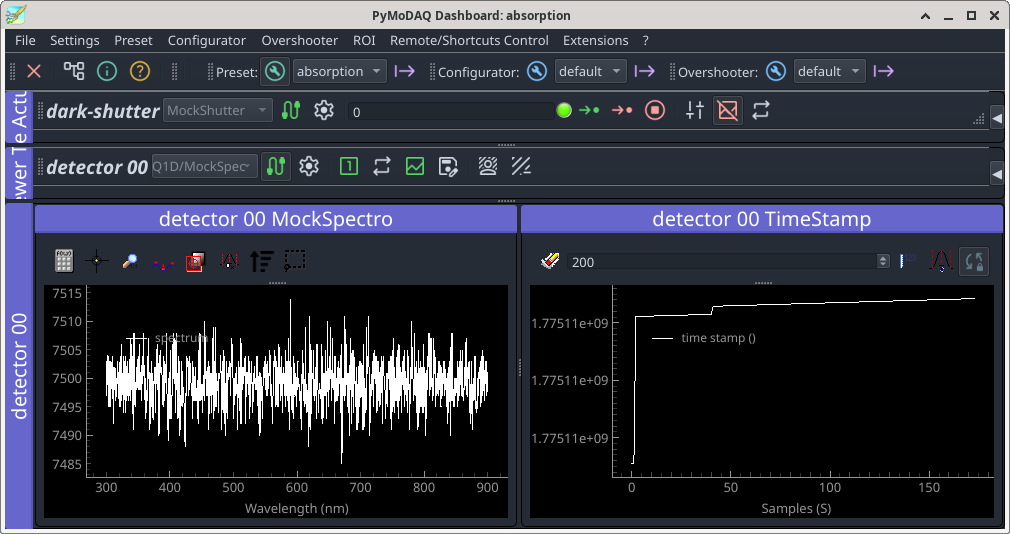
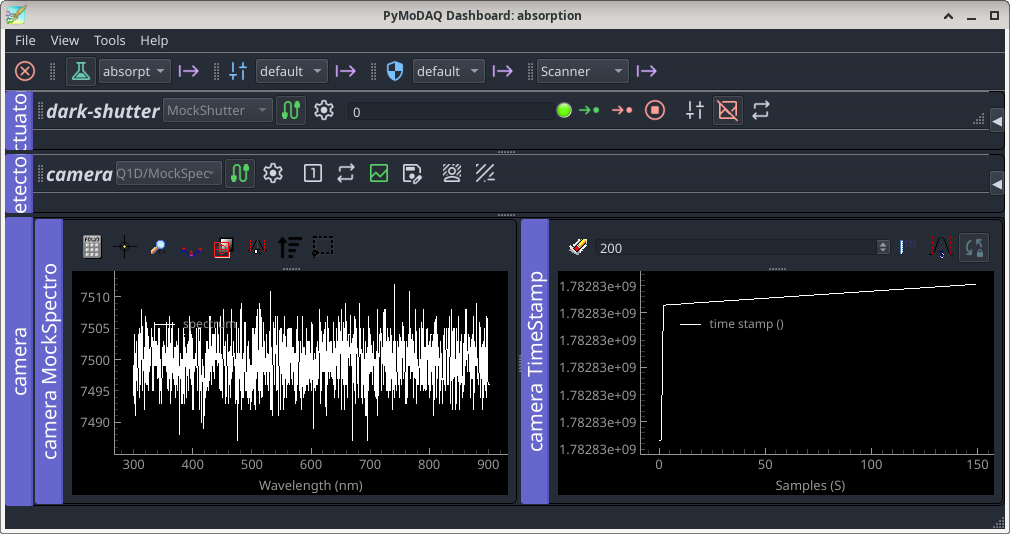
dashboard experiment

diff --git a/source/dashboard.rst b/source/dashboard.rst
@@ -1,7 +1,7 @@
 Playing with the devices in the dashboard
 =========================================
 
-To let the simulated spectrometer and shutter act together we have to join them in a dashboard experiment. Start the dashboard, open the experiment manager and click the icon for generating a new experiment. Name it 'absorption' and add an actuator of type MockShutter and a detector of type MockSpectro. Your experiment definition should now look like
+To let the simulated spectrometer and shutter act together we have to join them in an experiment. Start the dashboard, open the experiment manager and click the icon for generating a new experiment. Name it 'absorption' and add an actuator of type MockShutter and a detector of type MockSpectro. Your experiment definition should now look like
 
 .. image:: preset-manager.png
 
